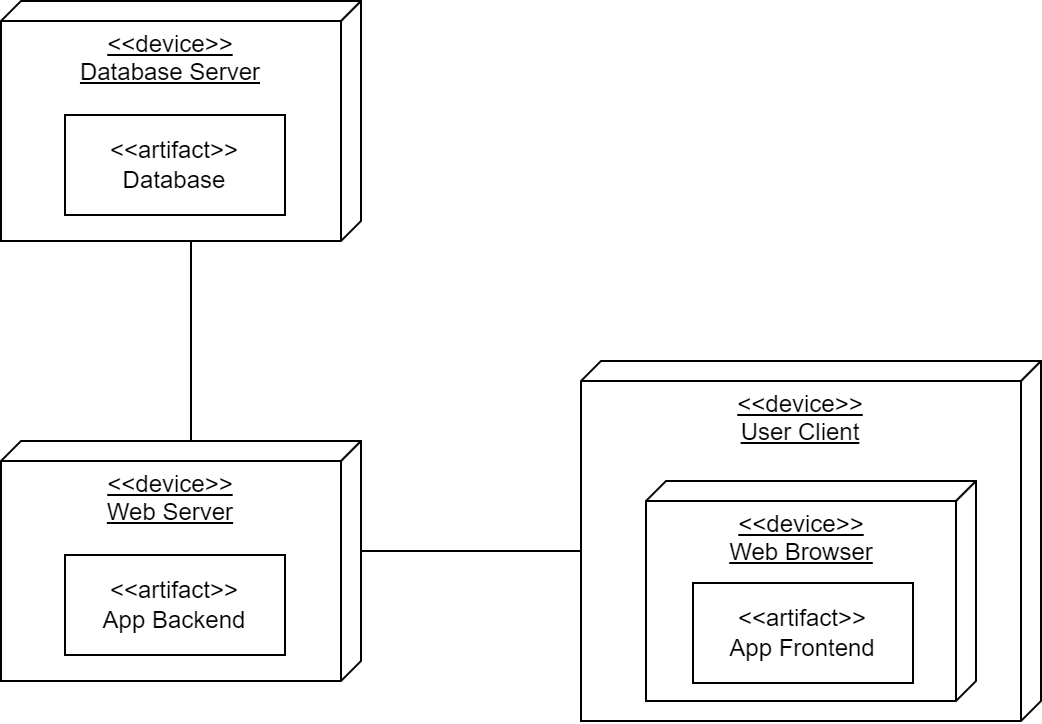
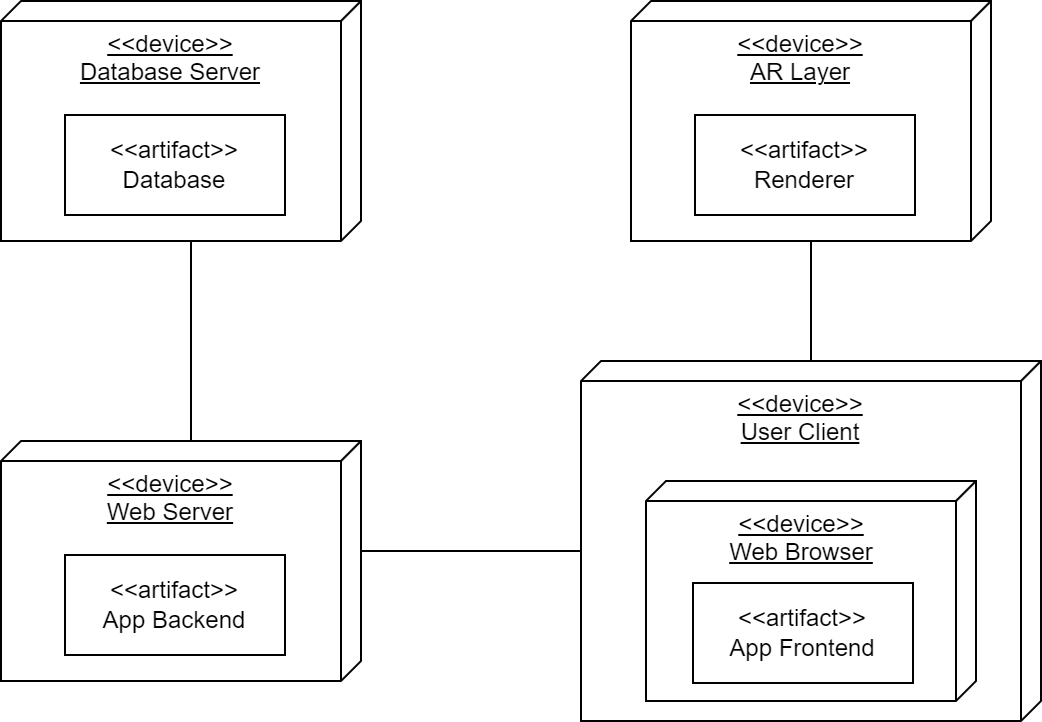
adds all sections

diff --git a/components/4-algorithms.tex b/components/4-algorithms.tex
@@ -1,0 +1,47 @@
+\chapter{ALGORITHM ANALYSIS AND MATHEMATICAL MODELING}
+
+\section{Convolutional Neural Networks}
+	CNNs play a crucial role in this project, specifically in enhancing the analysis and understanding of clothing images and the user's body. They can be used for the following tasks:
+
+	\begin{enumerate}
+		\item \textbf{Visual analysis of clothing items:} CNNs are employed to analyze and extract visual features from images of clothing items. This process enables the system to understand the style, design, color, and other visual attributes of each garment.
+		\item \textbf{Feature extraction:} CNNs extract high-level features from clothing images, allowing the system to identify patterns, textures, and details in the garments. This feature extraction aids in the matching of user preferences with visually similar items. Further, they can be used for feature extraction from the user's image, to learn about body attributes.
+		\item \textbf{Visual compatibility assessment:} CNNs can be utilized to assess the visual compatibility of clothing combinations, helping users put together stylish outfits. This ensures that the virtual try-on experience reflects real-world fashion sensibilities.
+	\end{enumerate}
+
+\section{Matrix Factorization}
+	Matrix factorization is a fundamental technique employed to model user-item interactions, extract latent factors, and generate personalized clothing recommendations. In this context, matrix factorization primarily focuses on the following aspects:
+
+	\begin{enumerate}
+		\item \textbf{User-item interaction matrix:} A user-item interaction matrix is constructed with users represented along one axis, and clothing items along the other axis. This matrix captures the historical interactions of users with clothing items, such as views, clicks, purchases, and preferences.
+		\item \textbf{Latent factor discovery:} Matrix factorization techniques are applied to decompose the user-item interaction matrix into two lower-dimensional matrices, one representing users' latent factors and the other representing items' latent factors. These latent factors capture unobservable characteristics of both users and clothing items. Users with similar tastes have similar latent factors, and clothing items with similar attributes have similar latent factors.
+		\item \textbf{Recommendation generation:} Once the latent factors are discovered, a recommendation engine can employ them to generate personalized recommendations. This is achieved by estimating missing entries in the interaction matrix, indicating which clothing items a user may be interested in. The engine ranks items based on these estimates and presents the top recommendations to the user.
+	\end{enumerate}
+
+\section{Bayesian Personalized Ranking}
+	BPR addresses a critical challenge in the realm of fashion e-commerce. It is used to optimize the ranking of clothing items within our recommendation system, ensuring that users are presented with items that align closely with their preferences and style. Here's how BPR can be applied:
+
+	\begin{enumerate}
+		\item \textbf{Personalized ranking:} BPR focuses on the individual preferences and interactions of users. It acknowledges that each user has unique tastes and that the success of a recommendation system lies in its ability to rank items according to these individual preferences.
+		\item \textbf{Implicit feedback:} BPR is particularly well-suited for scenarios where implicit feedback is abundant. In the fashion e-commerce domain, user interactions are often implicit, including clicks, views, and purchases. BPR leverages these implicit signals to understand user preferences, creating a ranking of items based on the likelihood of user engagement.
+	\end{enumerate}
+
+\section{Siamese and Triplet Networks}
+	Siamese and Triplet networks emerge as essential tools for enhancing the accuracy and quality of the recommendation and virtual try-on systems.
+
+	\subsection{Siamese Networks}
+		Siamese networks are fundamental for both the recommendation engine and virtual try-on systems. They can be employed to measure the similarity between user preferences and clothing items. By learning similarity metrics, the recommendation system can identify items that align with a user's unique style. Siamese networks enhance the ability to create personalized recommendations by assessing the closeness of user preferences and clothing features. In the virtual try-on system, Siamese networks play a pivotal role in assessing how well a selected clothing item fits and matches the user's style. By comparing the virtual try-on with the user's image, the network can provide real-time feedback on the fit, style, and overall suitability of the item.
+
+	\subsection{Triplet Networks}
+		Triplet networks can be used to create embeddings for clothing items, user profiles, and the user's virtual try-on. By learning triplets composed of an anchor item (selected clothing item), a positive item (a similar item that the user may like), and a negative item (a dissimilar item), the network can generate embeddings that capture the nuances of user preferences. This enables the system to recommend items that closely match the user's style and improve the virtual try-on experience.
+
+	In both Siamese and Triplet network applications, the focus is on creating robust embeddings and similarity metrics. These networks contribute to the project's core objectives of providing personalized clothing recommendations and an immersive virtual try-on experience, ultimately enhancing user engagement and satisfaction in online fashion retail.
+
+\section{Transformers}
+	Transformers, originally developed for natural language processing tasks, have proven to be versatile and valuable in various domains, including computer vision and recommendation systems. Transformers can be utilized in the following ways:
+
+	\begin{enumerate}
+		\item \textbf{Textual data analysis:} Transformers can be used to analyze textual data associated with clothing items, such as product descriptions, customer reviews, and style attributes. By understanding the semantics and context of these descriptions, Transformers enhance the recommendation system's ability to capture the fine-grained details of clothing items.
+		\item \textbf{Multimodal representations:} Transformers are used to create multimodal embeddings that relate both textual and visual features of clothing items. These embeddings capture a holistic view of fashion items by integrating information from both text and images. The resulting embeddings are valuable for recommendation accuracy.
+		\item \textbf{Augmented reality enhancement:} In the virtual try-on component, Transformers help in image recognition, style matching, and visual understanding. They optimize the overlay of digital clothing items on users' images, ensuring a realistic and visually appealing virtual try-on experience.
+	\end{enumerate}

diff --git a/components/2-survey.tex b/components/2-survey.tex
@@ -403,8 +403,7 @@
 			\caption{Available fashion datasets}
 			\label{table:datasets}
 			\begin{tabularx}{\columnwidth}{
-				>{\raggedleft\arraybackslash}p{0.5cm}
-				p{4cm} 
+				p{1cm} p{4cm}
 				>{\raggedleft\arraybackslash}p{2cm} 
 				X
 			}
@@ -523,3 +522,33 @@
 				\item \textit{Stability} assesses the stability of virtual objects as users move or interact with the environment. Stable objects provide a more convincing AR experience.
 				\item \textit{Localization Accuracy} measures how accurately the AR system can determine the user's position and orientation in the real world, essential for precise object placement.
 			\end{enumerate}
+
+\section{Proposed System}
+	The proposed system represents a pioneering and transformative approach to online clothing shopping, leveraging the power of AI and AR to provide a seamless and immersive try-before-buy experience. At its core, the system is engineered to overcome the challenges inherent in the online fashion retail sector, including uncertainties related to clothing fit, style suitability, and the absence of a physical try-on opportunity. This proposed system consists of a set of cutting-edge components and features that collectively redefine the online shopping landscape:
+
+	\subsection{AI-Driven Recommendation System}
+		The heart of the proposed system is a state-of-the-art AI-driven recommendation engine. This component harnesses the capabilities of machine learning and deep learning algorithms to scrutinise user data, including style preferences, body measurements, historical purchasing patterns, and user feedback. The recommendation system employs advanced algorithms to generate highly personalised clothing suggestions, catering to the user's distinct style and body shape. It leverages AI to adapt to changing user preferences, ensuring that the clothing recommendations evolve and remain relevant over time. The AI-driven recommendation system is not merely a static tool for suggesting clothing items; it's a dynamic and adaptive engine that continually learns from user interactions. This component plays a crucial role in shaping the user's shopping experience, ensuring that every recommendation aligns with individual style preferences, body size, and other personal factors.
+
+	\subsection{AR Virtual Try-On}
+		The proposed system incorporates an innovative AR try-on feature that brings the virtual try-on experience to life. This component utilises cutting-edge AR technology to immerse users in a lifelike virtual fitting room. Users can see themselves in real-time, enhanced with virtual clothing items, enabling a 360-degree view of how different garments fit, move, and complement their bodies. The AR try-on feature is a pinnacle of realism, encompassing markerless tracking for pinpoint clothing placement, real-time cloth physics simulations for natural garment movement, and realistic fabric rendering. It creates a dynamic and interactive fitting experience, offering users the opportunity to assess clothing items as they would in a physical store. This immersive component is designed to eliminate uncertainties about fit and style, ultimately empowering users to make confident choices.
+
+	\subsection{User Profile Management}
+		The system prioritises user personalization through comprehensive profile management. Users have the capability to establish and maintain user profiles, which include personal information, style preferences, and body measurements. This feature enables the AI recommendation system to provide tailored clothing suggestions that precisely align with each user's unique style and fit requirements. User profiles serve as a foundation for personalization and ensure that every recommendation is curated to meet individual tastes and needs.
+
+	\subsection{Clothing Catalog Integration}
+		The system seamlessly integrates with an extensive and regularly updated clothing catalogue that comprises a diverse selection of fashion items from numerous brands and designers. The catalogue is continuously refreshed with the latest fashion trends and selections, offering users access to a dynamic and ever-evolving array of clothing items. Users can explore this extensive catalogue with the assurance that they are perusing the latest and most stylish options.
+
+	\subsection{Real-Time Feedback and Customization}
+		User feedback is pivotal to the system's success. Users have the opportunity to provide real-time feedback during the virtual try-on experience. This input allows the system to make immediate adjustments to garment placement, fit, and style, ensuring that users have full control over their virtual try-on experience. The system allows users to interact with clothing items and make customizations in real-time, enhancing the user's sense of agency and involvement in the fitting process.
+
+	\subsection{Advanced Search and Filtering}
+		To streamline the shopping experience, the proposed system offers advanced search and filtering capabilities. Users can quickly find specific clothing items using a range of criteria, including style, brand, size, price, and more. This feature empowers users to navigate the extensive clothing catalogue efficiently, making it effortless to discover the clothing items that best match their preferences.
+
+	\subsection{Secure User Data Management}
+		Prioritising user data privacy and security is a foundational principle of the system. The system employs robust data encryption and secure user data management practices to safeguard user profiles and sensitive information. Confidentiality and trust are paramount, and users can be confident that their data is protected and used responsibly.
+
+	\subsection{Real-Time Connectivity}
+		The system operates in real-time, offering users instantaneous connectivity to both the AI recommendation engine and the AR try-on feature. Users can experience virtual try-ons instantly, receiving clothing recommendations and visualisations without delay. Real-time connectivity ensures that users can swiftly access and engage with the system's features, enhancing the efficiency of the online shopping experience.
+
+	\subsection{Cross-Platform Accessibility}
+		The proposed system is designed with accessibility in mind. It is accessible across various platforms, including web browsers, mobile applications, and augmented reality devices. This cross-platform approach ensures that users can engage with the system on their preferred devices, making it versatile and user-friendly.

diff --git a/components/3-req.tex b/components/3-req.tex
@@ -84,18 +84,6 @@
 		The operating environment of our project is as follows:
 
 		\begin{enumerate}
-			\item \textbf{Hardware requirements:}
-				\begin{itemize}
-					\item \textit{User devices:} The project is intended to work on a range of user devices like smartphones, tablets, laptops, and desktop computers.
-					\item \textit{Cameras and sensors:} Devices should have integrated or attachable cameras and sensors capable of capturing user images and surroundings for the virtual try-on feature.
-					\item \textit{CPU:} Any modern multi-core processor with a clock speed of at least 2.5 GHz.
-					\item \textit{GPU:}
-						\begin{itemize}
-							\item Training requirement: A video-card with minimum 8GB VRAM for deep learning tasks.
-							\item End-user inference requirement: Any GPU which supports Vulkan APIs.
-						\end{itemize}
-					\item \textit{Internet connectivity:} A stable internet connection is essential for real-time communication with the server, image processing, and rendering of AR elements.
-				\end{itemize}
 			\item \textbf{Software requirements:}
 				\begin{itemize}
 					\item \textit{Operating system:} The target end-user operating system may be any of the following platforms which support the ONNX Runtime \cite{onnxruntimeCompatibility}:
@@ -110,9 +98,21 @@
 					\item \textit{AR framework:} A robust AR framework such as AR.js for web-based AR experiences, should be integrated.
 					\item \textit{Database management:} The project requires a database management system for user profiles, clothing item information, and preference data. Document-based NoSQL options like Apache Cassandra can be considered.
 					\item \textit{Programming languages and libraries:} Development will involve languages like Python and JavaScript, and frameworks like PyTorch and Huggingface Transformers and Optimum for machine learning tasks.
-					\item \textit{Machine learning inference:} A cross-platform machine learning runtime like ONNX Runtime \cite{onnxruntimeONNXRuntime} which supports the ONNX format \cite{onnxONNXHome}, an open standard for machine learning interoperability.
+					\item \textit{Machine learning inference:} A cross-platform machine learning runtime like ONNX Runtime which supports the ONNX format, an open standard for machine learning interoperability.
 					\item \textit{Web development stack:} For web-based interfaces, a stack including HTML, CSS, JavaScript, and backend frameworks like Node.js and Express will be employed.
 				\end{itemize}
+			\item \textbf{Hardware requirements:}
+			\begin{itemize}
+				\item \textit{User devices:} The project is intended to work on a range of user devices like smartphones, tablets, laptops, and desktop computers.
+				\item \textit{Cameras and sensors:} Devices should have integrated or attachable cameras and sensors capable of capturing user images and surroundings for the virtual try-on feature.
+				\item \textit{CPU:} Any modern multi-core processor with a clock speed of at least 2.5 GHz.
+				\item \textit{GPU:}
+					\begin{itemize}
+						\item Training requirement: A video-card with minimum 8GB VRAM for deep learning tasks.
+						\item End-user inference requirement: Any GPU which supports Vulkan APIs.
+					\end{itemize}
+				\item \textit{Internet connectivity:} A stable internet connection is essential for real-time communication with the server, image processing, and rendering of AR elements.
+			\end{itemize}
 		\end{enumerate}
 	
 	\subsection{Design Philosophies}

diff --git a/components/6-planning.tex b/components/6-planning.tex
@@ -1,0 +1,63 @@
+\chapter{Project Planning}
+
+\section{Software Requirements}
+	After literature survey and studies, the top tools that were found for our project are as follows:
+
+	\begin{itemize}
+		\item \textbf{Machine learning training:} PyTorch, Huggingface Transformers, and Optimum.
+		\item \textbf{Machine learning inference:} ONNX Runtime.
+		\item \textbf{Web backend:} Express.
+		\item \textbf{Web frontend:} HTML, JS, CSS.
+		\item \textbf{AR framework:} AR.js.
+		\item \textbf{Database:} Apache Cassandra.
+	\end{itemize}
+
+\section{Hardware Requirements}
+	In accordance to the software requirements, hardware requirements for our project are as follows:
+
+	\begin{itemize}
+		\item \textbf{User devices:} Smartphones, tablets, laptops, and desktop computers.
+		\item \textbf{Cameras and sensors:} Integrated or attachable cameras and sensors.
+		\item \textbf{CPU:} Multi-core 2.5 GHz.
+		\item \textbf{GPU:} Minimum 8GB VRAM for training. Ann any Vulkan-enabled GPU for end-user.
+		\item \textbf{Internet connectivity:} Stable internet connection.
+	\end{itemize}
+
+\section{Project Scope}
+	The scope of the project is as follows:
+	
+	\begin{itemize}
+		\item \textbf{Fashion embedding:} Embed clothing items in higher-dimensional space.
+		\item \textbf{Feature extractor:} Train feature extractor to use in segmentation of body parts.
+		\item \textbf{AI-based recommender:} Train a personalized recommendation system.
+		\item \textbf{AR virtual try-on:} Develop an AR-powered virtua try-on module.
+	\end{itemize}
+
+\section{Project Timeline}
+	Probable date of project completion is by the end of the term. A month-by-month distribution and estimation of milestones is as follows:
+
+	\begin{table}[h!]
+		\renewcommand{\arraystretch}{1.5}
+		\caption{Project Timeline}
+		\label{table:timeline}
+		\begin{tabularx}{\columnwidth}{
+			>{\centering\arraybackslash}p{1.5cm}
+			X
+		}
+			\toprule
+				\textbf{Month} & \textbf{Milestones} \\
+			\midrule
+				1 & Team formation, guide allocation, ideation and topic finalization. \\
+				2 & Literature review, feasibility study, scope finalization. \\
+				3 & Requirement analysis, high-level architecture design. \\
+				4 & Stage-I review. \\
+			\addlinespace \hline \addlinespace
+				5 & Prototyping, data collection, pipeline setup. \\
+				6 & Development and integration. \\
+				7 & Testing, optimization, polish. \\
+				8 & Stage-II review. \\
+			\addlinespace \hline \addlinespace
+				Future & Continuous integration and deployment. \\
+			\bottomrule
+		\end{tabularx}
+	\end{table}

diff --git a/components/5-design.tex b/components/5-design.tex
@@ -1,0 +1,77 @@
+\chapter{DETAILED DESIGN}
+
+\section{Architectural Design}
+	\begin{figure}[h!]
+		\centering
+		\includegraphics[width=0.75\textwidth]{components/images/sys-arch.png}
+		\caption{System Architecture}
+		\label{fig:sys-arch}
+	\end{figure}
+
+\section{UML Diagrams}
+	\subsection{Use-case Diagram}
+		\begin{figure}[h!]
+			\centering
+			\includegraphics[width=0.75\textwidth]{components/images/use-case.png}
+			\caption{Use-case Diagram}
+			\label{fig:use-case-rep}
+		\end{figure}
+
+	\pagebreak
+
+	\subsection{Sequence Diagram}
+		\begin{figure}[h!]
+			\includegraphics[width=\textwidth]{components/images/sequence.png}
+			\caption{Sequence Diagram}
+			\label{fig:sequence}
+		\end{figure}
+
+	\pagebreak
+
+	\subsection{Activity Diagram}
+		\begin{figure}[h!]
+			\includegraphics[width=\textwidth]{components/images/activity.png}
+			\caption{Activity Diagram}
+			\label{fig:activity}
+		\end{figure}
+
+	\pagebreak
+
+	\subsection{State Diagram}
+		\begin{figure}[h!]
+			\includegraphics[width=\textwidth]{components/images/state.png}
+			\caption{State Diagram}
+			\label{fig:state}
+		\end{figure}
+
+	\pagebreak
+
+	\subsection{Component Diagram}
+		\begin{figure}[h!]
+			\includegraphics[width=\textwidth]{components/images/component.png}
+			\caption{Component Diagram}
+			\label{fig:component}
+		\end{figure}
+
+	\subsection{Class Diagram}
+		\begin{figure}[h!]
+			\includegraphics[width=\textwidth]{components/images/class.png}
+			\caption{Class Diagram}
+			\label{fig:class}
+		\end{figure}
+
+	\pagebreak
+
+	\subsection{Object Diagram}
+		\begin{figure}[h!]
+			\includegraphics[width=\textwidth]{components/images/object.png}
+			\caption{Object Diagram}
+			\label{fig:object}
+		\end{figure}
+
+	\subsection{Deployment Diagram}
+		\begin{figure}[h!]
+			\includegraphics[width=\textwidth]{components/images/deployment.png}
+			\caption{Deployment Diagram}
+			\label{fig:deployment}
+		\end{figure}

diff --git a/components/7-conclusion.tex b/components/7-conclusion.tex
@@ -1,0 +1,7 @@
+\chapter{CONCLUSION}
+
+In this preliminary project report, we discuss this project's core objective, which was to address the persistent challenges of decision paralysis and high return rates in fashion e-commerce. To this end, we designed an AI-driven clothing recommendation system that analyzes user preferences, behavior, and clothing attributes to offer personalized recommendations. This recommendation system serves as a compass, guiding users through the vast seas of fashion choices.
+
+To enhance customer experience, an AR-based virtual try-on system which enables users to immerse themselves in the clothing items is proposed. This interactive experience has the power to bridge the tactile gap that online shopping has long suffered from, allowing users to virtually try on clothing and assess their fit and style in real-time. It offers a dynamic shopping experience that empowers users to make informed purchasing decisions.
+
+The project is not only about enhancing user experiences but also about promoting sustainability. By reducing return rates and aligning with eco-friendly practices, we aspire to contribute to a more environmentally responsible fashion industry.

diff --git a/main.tex b/main.tex
@@ -95,6 +95,12 @@
 
 	\tableofcontents
 
+	{
+		\listoffigures
+		\let\clearpage\relax
+		\listoftables
+	}
+
 	\mainmatter
 
 	\titleformat{\chapter}[display]
@@ -110,6 +116,10 @@
 	\include{components/1-intro.tex}
 	\include{components/2-survey.tex}
 	\include{components/3-req.tex}
+	\include{components/4-algorithms.tex}
+	\include{components/5-design.tex}
+	\include{components/6-planning.tex}
+	\include{components/7-conclusion.tex}
 
 	\bibliographystyle{IEEEtranN.bst}
 	\bibliography{
@@ -120,5 +130,4 @@
 		components/refs/datasets.bib,
 		components/refs/req.bib
 	}
-
 \end{document}
